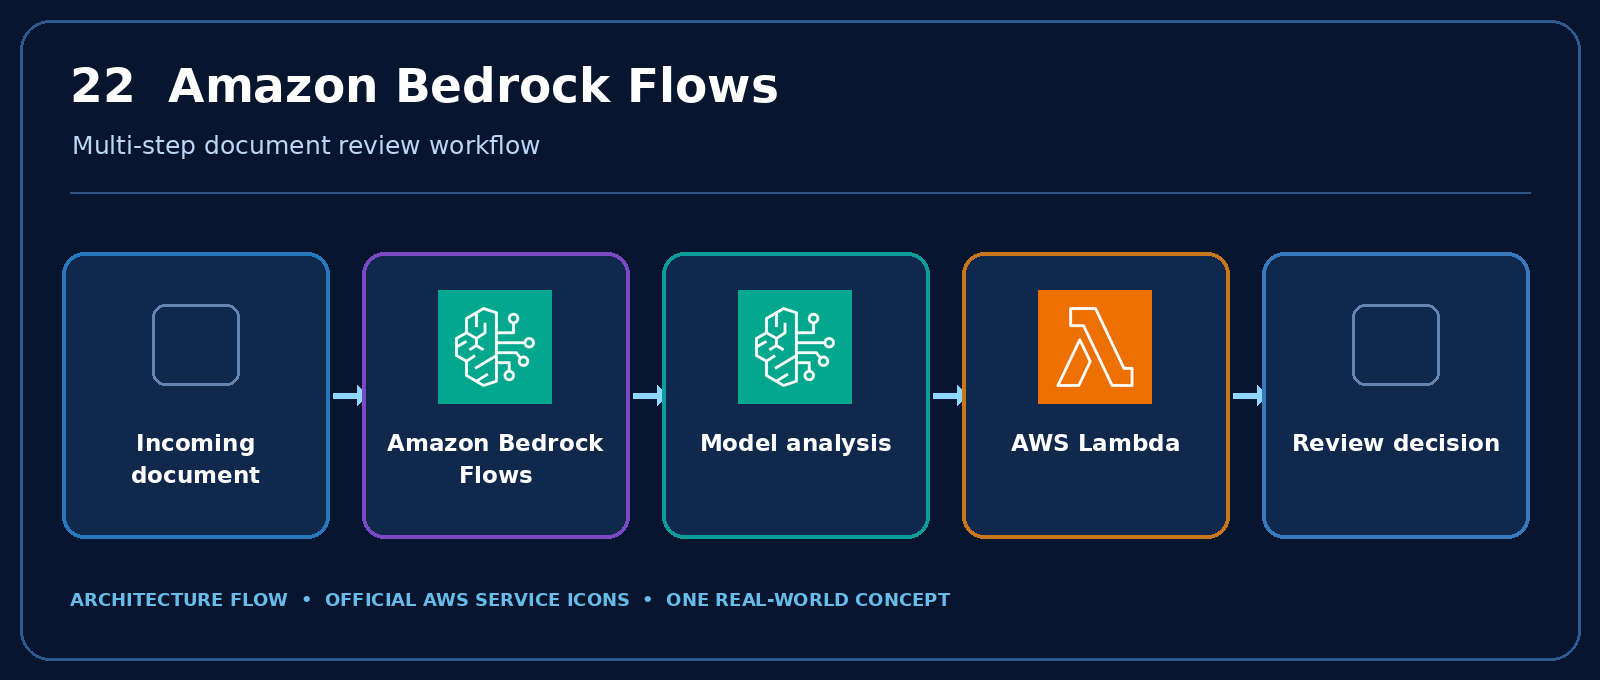
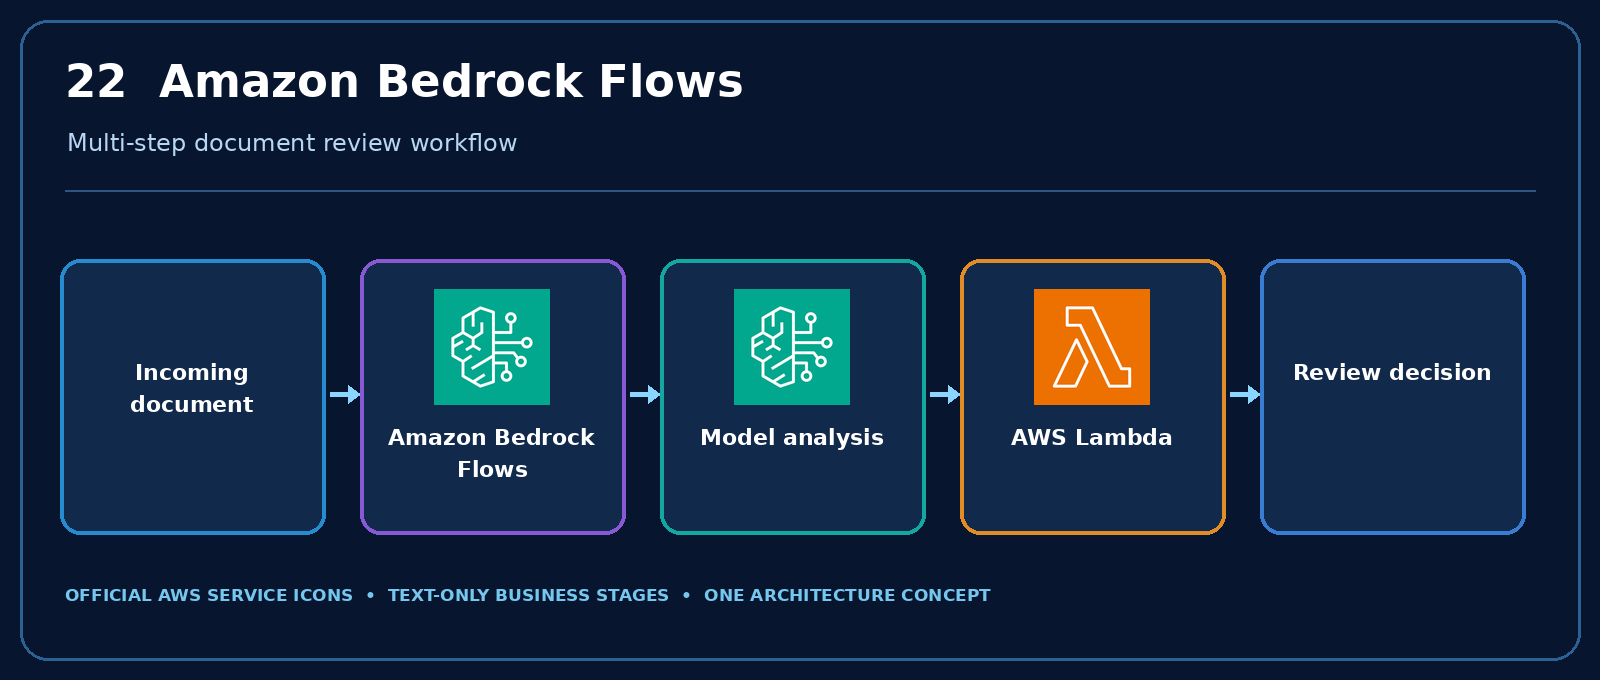
Add files via upload

diff --git a/AiWorkloads/AWS_AI_28_Architecture_Infographics.md b/AiWorkloads/AWS_AI_28_Architecture_Infographics.md
@@ -1,6 +1,6 @@
-# AWS AI — 28 Architecture Infographics
+# AWS AI — 28 Validated Architecture Infographics
 
-> All service icons in these diagrams are sourced exclusively from the AWS Architecture Icons package supplied with this guide. Non-service inputs and outputs are represented by text-only boxes; no substitute icons are used.
+**Icon policy:** AWS service pictograms are sourced only from the official AWS Architecture Icons ZIP provided by the user. Non-service inputs and outputs are text-only stages; no empty icon placeholders or fabricated logos are used.
 
 ## Contents
 
@@ -535,10 +535,16 @@
 4. When needed, the application invokes a controlled tool to read relevant records from DynamoDB.
 5. The developer tests tool permissions, error handling, and response quality before production release.
 
-**Architecture flow:** User question → Amazon API Gateway → AWS Lambda + Strands SDK → Amazon Bedrock → DynamoDB tool.
+**Architecture flow:** User question → Amazon API Gateway → AWS Lambda (Strands agent) ↔ Amazon Bedrock; the Lambda-hosted agent separately calls Amazon DynamoDB as an authorized tool; the answer returns through Lambda and API Gateway.
 
 ---
 
-## Icon attribution and implementation notes
+## Validation notes
 
-All pictorial service icons are taken from the AWS Architecture Icons ZIP supplied by the user. Labels for concepts without a dedicated service icon in the supplied pack are shown as text-only stages. The Amazon Q icon represents both Q Developer and Q Business, with distinct labels; Amazon Bedrock is used for features that do not have their own dedicated icon. AWS Trainium and AWS Inferentia are shown with the official Amazon EC2 icon and explicitly labeled accelerator hardware, not fabricated chip icons. Strands Agents SDK is shown as application code in AWS Lambda, not as an invented AWS service icon. Architecture examples are illustrative and should be validated for service availability, pricing, security, and supported integrations.
+- All 28 diagrams have a unique heading, architecture focus, and image filename.
+- All 28 diagrams use only service icons extracted from the supplied AWS Architecture Icons package.
+- Non-service stages have labels only, without empty icon placeholders.
+- Strands Agents SDK is labeled inside AWS Lambda, not represented by an invented standalone icon.
+- The Strands diagram distinguishes model reasoning through Bedrock from the DynamoDB tool call and notes the response path.
+- Some architecture flows are simplified conceptual workflows, not exhaustive deployment blueprints; verify IAM, authentication, data handling, and service availability before implementation.
+- All original five-sentence use-case sets have been preserved without rewriting.
